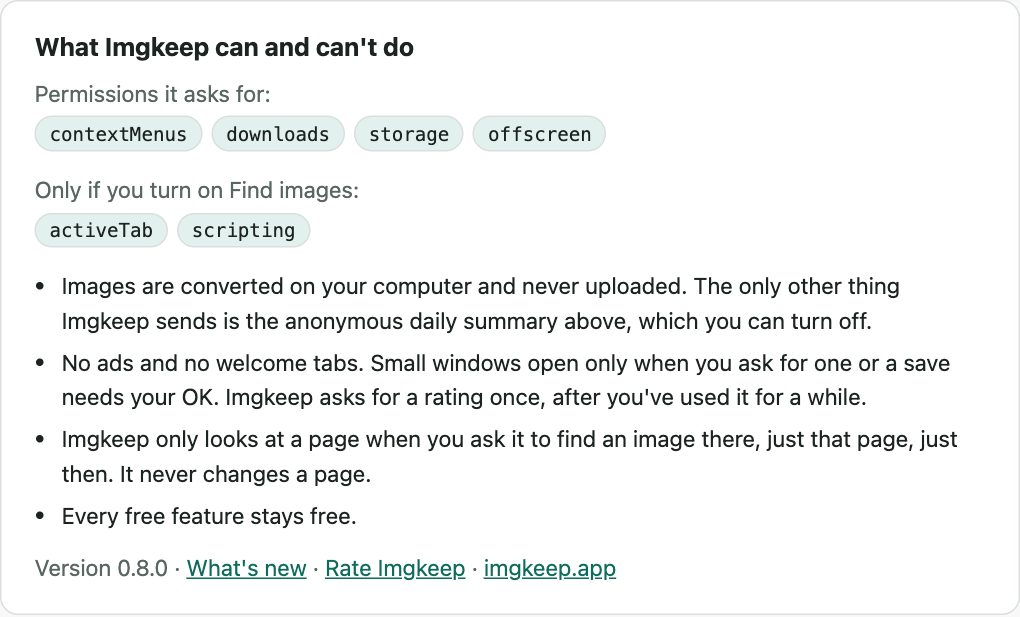
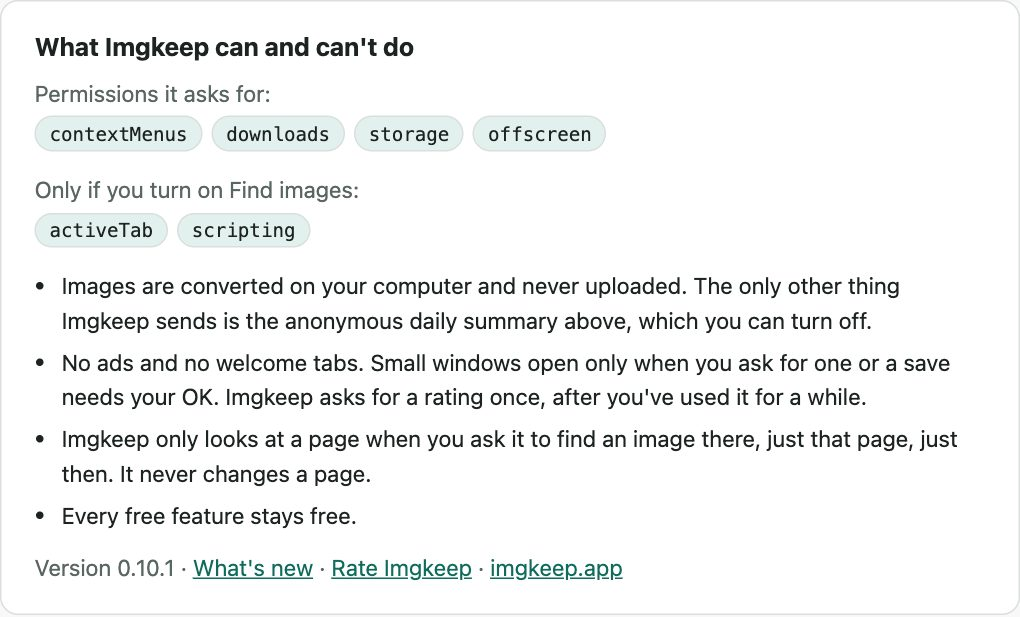
0.10.1: dated 2026-10-18, What's new, trust shot shows the current version

Changed region(s): [[0.1216, 0.893, 0.6078, 0.9546]]

diff --git a/site/whats-new.html b/site/whats-new.html
@@ -39,6 +39,12 @@
         <li><strong>Your ideas:</strong> the most-voted ideas get built first. <a href="ideas.html">Suggest or vote</a>.</li>
       </ul>
 
+      <h2>0.10.1 · 18 October 2026</h2>
+      <ul>
+        <li><strong>Fix:</strong> the anonymous daily summary could be sent more than once on the same day (the same counts each time). Now it's sent once. Nothing else was in it: still only counts, never images, addresses or file names.</li>
+        <li><strong>New on the website:</strong> the <a href="convert/">Free Image Converter</a> converts images you already have, right in your browser, without uploading them.</li>
+      </ul>
+
       <h2>0.10.0 · 16 October 2026</h2>
       <ul>
         <li><strong>Save as AVIF:</strong> in More options, pick AVIF for files that are often half the size of a JPG that looks the same, with transparency kept. Browsers can open AVIF but can't create it, so Imgkeep now includes libavif, the open-source reference encoder. It's the one compiled part of Imgkeep, included unchanged and checked by its fingerprint, and it only loads when you save as AVIF. Thanks to everyone who <a href="https://github.com/ybider-tech/imgkeep/discussions/3">asked for it</a>.</li>

diff --git a/CHANGELOG.md b/CHANGELOG.md
@@ -1,6 +1,6 @@
 # Changelog
 
-## 0.10.1 — unreleased
+## 0.10.1 — 2026-10-18
 
 - **Fix: a daily summary could be sent several times.** When Imgkeep woke up on a new day without counting anything (the browser wakes extensions many times a day), it sent yesterday's summary but left yesterday's counts in place, so each later wake-up sent the same summary again until the first save of the day replaced them. Present since 0.7.0. Seen in PostHog on 16 October 2026: 68 summaries arrived, 17 of them distinct. Now the counts are cleared once they become the summary. New test: three wake-ups after the new day send one summary.
 - The PostHog dashboards and the weekly digest already count each identical summary once, so numbers from earlier versions are correct there too.
